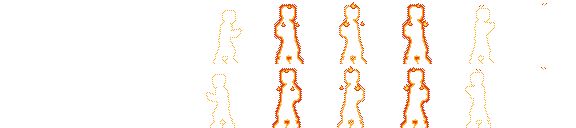
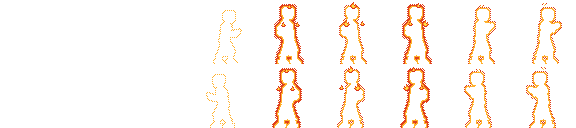
Inner Gate: Adrenaline v3: lingering aura, red skin flush and raised veins (skin-fx / arms-fx layers), linger spec for the buff
Claude-Session: https://claude.ai/code/session_01Szh5ttH3xbiT9MYRnR6qvg

diff --git a/tools/astro.py b/tools/astro.py
@@ -109,7 +109,7 @@ CLIPS = {
        fx=nfx('fire spark kindling at the seal', [(2, [('flame1', [35, 31])]), (3, [('flame2', [34, 32])])]),
        blast={4: 0, 5: 1, 6: 2, 7: 3})),
  'innerGateAdrenaline': ('Inner Gate: Adrenaline', 4,
-  'Inner Gate: Adrenaline (Aries taijutsu buff: AGI and STR up, the fighter burns itself): from the guard the fighter clenches, curls the fists in front of the belly and sinks, straining, eyes squeezed; then the gate bursts open: it stands up tall, chest thrown out and both fists driven down and back, and an orange-red aura flares around the whole body with flame licks rising off the shoulders and head; the aura pulses once, the flames keep licking (the self-burn), then the fighter drops back into the guard with embers still drifting off it.', [
+  'Inner Gate: Adrenaline (Aries taijutsu buff: AGI and STR up, the fighter burns itself): from the guard the fighter clenches, curls the fists in front of the belly and sinks, straining, eyes squeezed; then the gate bursts open: it stands up tall, chest thrown out and both fists driven down and back, and an orange-red aura flares around the whole body with flame licks rising off the shoulders and head; the aura pulses once, the flames keep licking (the self-burn), then the fighter drops back into the guard still powered up: the aura lingers, the skin stays flushed red and the veins stand out on the arms, neck and temple, embers drifting off it (the testbed keeps that look while the buff lasts).', [
      g(),
      g(an=band(-30, -120), af=band(-35, -125), bob=(2, 2, 3), lean=(0, 2), **LOW),
      g(an=band(-20, -100), af=band(-25, -105), bob=(3, 3, 4), lean=(0, 3), **LOW),
@@ -120,8 +120,9 @@ CLIPS = {
      g(an=band(-25, 205), af=band(-40, 215), bob=(1, 1, 2), lean=(0, 1)),
      g()],
   [None, 'squint', 'pain', 'pain', 'squint', 'squint', 'squint', None, None],
-  [0, 0, 0, 1, 3, 2, 3, 1, 0],
-  dict(fps=10, auraColors=FIRE_AURA, fx=nfx('red-orange-yellow flame licks rising off the shoulders and head as the gate opens (self-burn), embers drifting after',
+  [0, 0, 0, 1, 3, 2, 3, 2, 2],
+  dict(fps=10, auraColors=FIRE_AURA, tint={3: 70, 4: 150, 5: 140, 6: 150, 7: 140, 8: 140}, veins=(4, 5, 6, 7, 8),
+       extra={'linger': {'rule': 'Inner Gate: Adrenaline (Christopher 2026-10-27: lingering aura, tinted skin, raised veins): the clip ends still powered up (aura 2 px, red skin tint, veins); while the buff lasts (3 rounds) the testbed keeps drawing the fighter with a 2 px orange-red aura flickering on its outer ring, the skin tint (fx red #ff3a1a at alpha 140 over skin pixels) and the veins, on every state it plays', 'aura': 2, 'auraColors': ['#ffb12e', '#e0401c'], 'tint': ['#ff3a1a', 140], 'veins': '#7a140c'}}, fx=nfx('red-orange-yellow flame licks rising off the shoulders and head as the gate opens (self-burn), embers drifting after',
               [(4, [('flame2', [31, 8]), ('flame2', [25, 26]), ('flame2', [39, 26])]), (5, [('flame3', [30, 8]), ('flame3', [23, 26]), ('flame2', [40, 25])]),
                (6, [('flame2', [32, 7]), ('flame2', [24, 25]), ('flame3', [38, 26])]), (7, [('embers', [31, 7])]), (8, [('embers', [30, 5])])]))),
 }
@@ -150,6 +151,7 @@ def fx(state):
                     if q[3] and q[:3] in x['trail']: px[xx, yy] = x['trail'][q[:3]] + (255,)
             b.save(f)
         if old: new = Image.open(f).convert('RGBA'); new.alpha_composite(old); new.save(f)
+    if x.get('tint'): flush(state, x['tint'], x.get('veins', ()))
     if x.get('swirl') or x.get('impact') or x.get('blast'):
         from PIL import Image
         f = D + state + '/fx.png'
@@ -295,6 +297,37 @@ def blast(state, frames):
             if stage >= 2:
                 for i in range(6): P(rnd.randint(4, 16), rnd.randint(-10, 10), (O, R_, Y)[i % 3])
     fx.save(f); print(state, 'blast', frames)
+
+SKIN = {(0xf6, 0xa3, 0x5b), (0xc8, 0x78, 0x45), (0x9e, 0x4a, 0x31)}   # the rig's skin ramp (L, m, s)
+def flush(state, tint, veins):
+    """Inner Gate (Christopher 2026-10-27): the skin flushes red (a translucent red over every skin pixel, alpha per frame)
+    and veins stand out on the forearms, upper arms, neck and temple (dark red broken lines, interior skin pixels only).
+    Written as two extra layers so clothing, armour and hair still cover it: skin-fx.png (body + far arm skin, drawn just
+    above body.png / far-arm.png) and arms-fx.png (near arm skin, drawn just above arms.png)"""
+    from PIL import Image
+    d = D + state + '/'
+    dirs = load(D + state + '.json')['directions']
+    for src, out in ((('body.png', 'far-arm.png'), 'skin-fx.png'), (('arms.png',), 'arms-fx.png')):
+        lays = [Image.open(d + n).convert('RGBA') for n in src if os.path.exists(d + n)]
+        if not lays: continue
+        img = Image.new('RGBA', lays[0].size); px = img.load(); lays = [L.load() for L in lays]
+        for k, al in tint.items():
+            for fd in dirs:
+                r = dirs.index(fd)
+                skin = {(x, y) for L in lays for y in range(64) for x in range(64) if (q := L[k * 64 + x, r * 64 + y])[3] and q[:3] in SKIN}
+                for (x, y) in skin: px[k * 64 + x, r * 64 + y] = (0xff, 0x3a, 0x1a, al)
+                if k not in veins or not skin: continue
+                top_y = min(y for _, y in skin) if out == 'skin-fx.png' else -99
+                for (x, y) in skin:
+                    if top_y + 2 < y < top_y + 11:   # head: a short vein at the temple only, the face stays clean
+                        if y in (top_y + 3, top_y + 4) and (x + y) % 3 == 0 and (x - 1, y) in skin and (x + 1, y) in skin: px[k * 64 + x, r * 64 + y] = (0x7a, 0x14, 0x0c, 255)
+                        continue
+                    across = ((x - 1, y) in skin and (x + 1, y) in skin and (x - 2, y) not in skin | {(x, y)}) or ((x, y - 1) in skin and (x, y + 1) in skin)
+                    # a vein runs down the middle of each limb's cross-section (arms, neck), broken every few pixels
+                    mid = (x - 1, y) in skin and (x + 1, y) in skin if (x, y - 1) in skin and (x, y + 1) in skin else (x, y - 1) in skin and (x, y + 1) in skin
+                    if mid and (x * 3 + y) % 5 != 0: px[k * 64 + x, r * 64 + y] = (0x7a, 0x14, 0x0c, 255)
+        img.save(d + out)
+    print(state, 'flush', list(tint), 'veins', list(veins))
 
 def ghosts(state, offs, cols):
     """after the blur: afterimages (Christopher 2026-10-27: onion/afterimage effects to exaggerate the speed). On each
